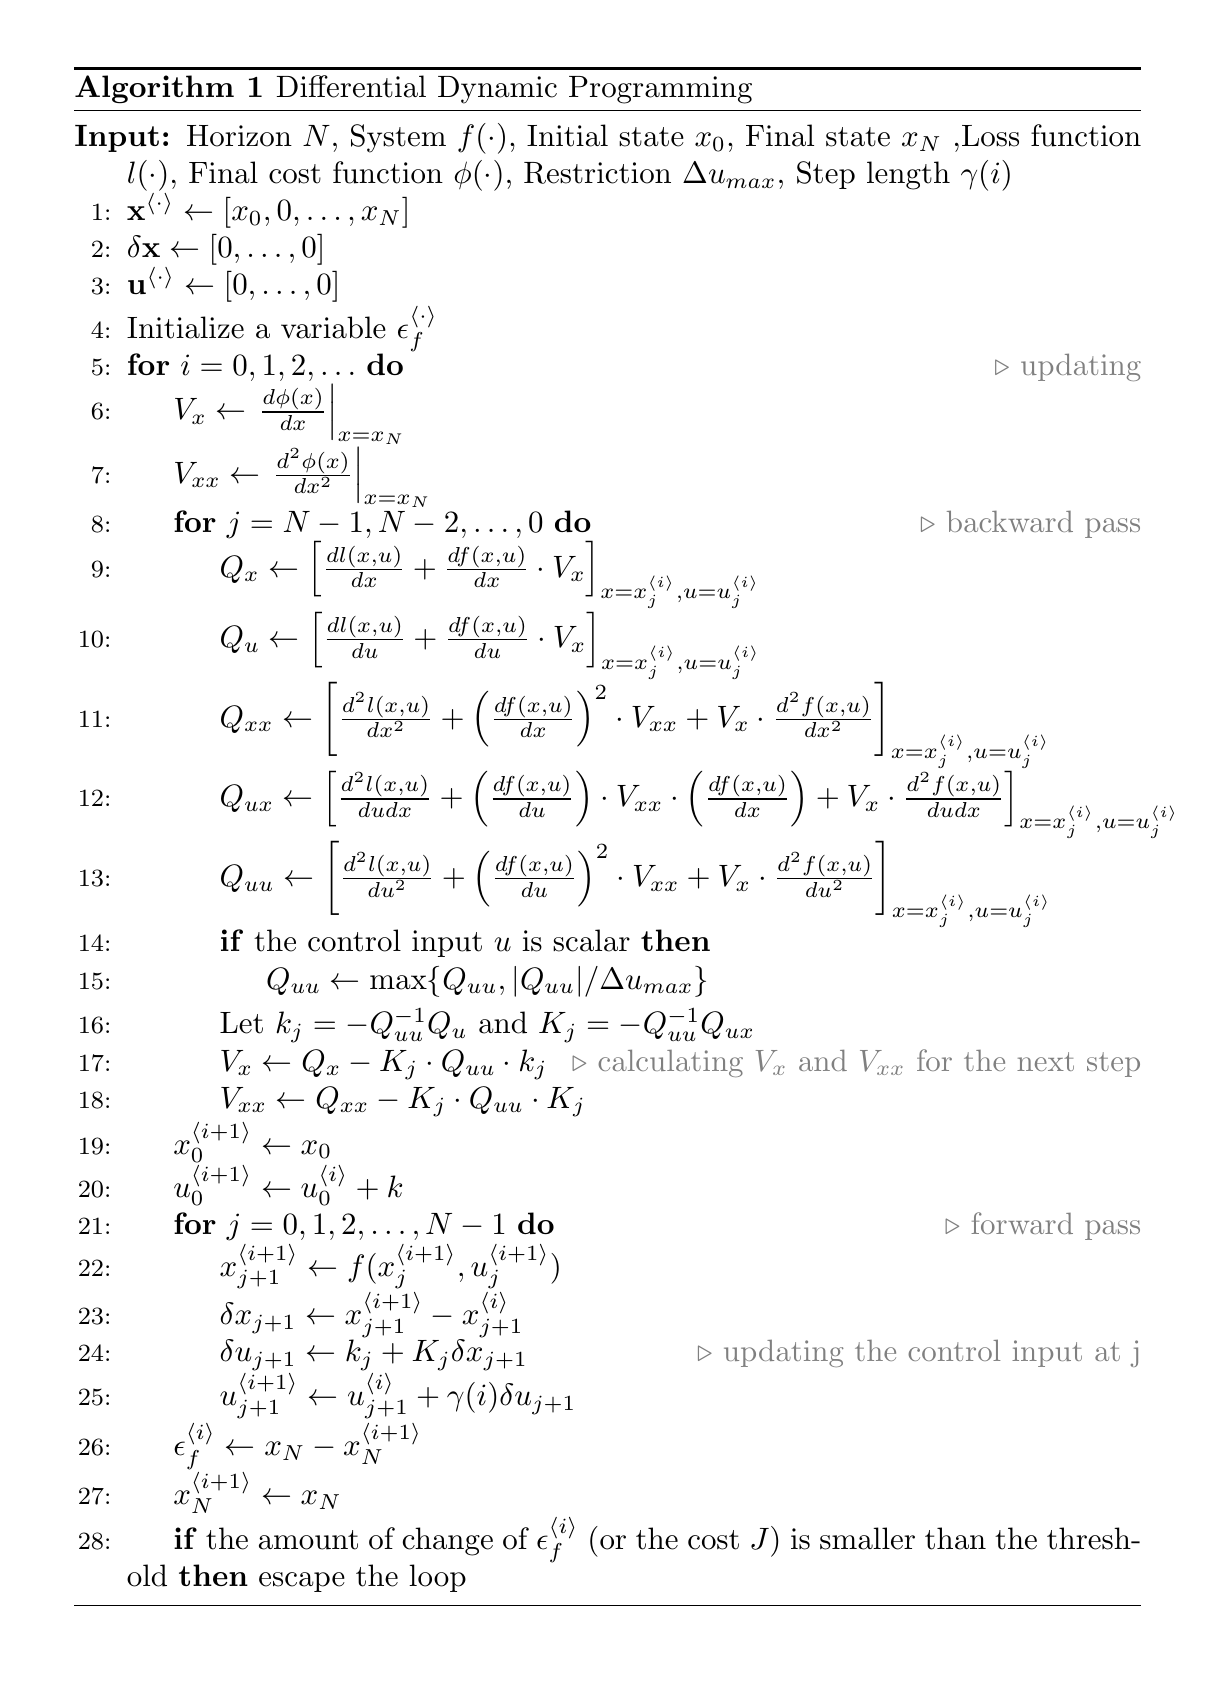
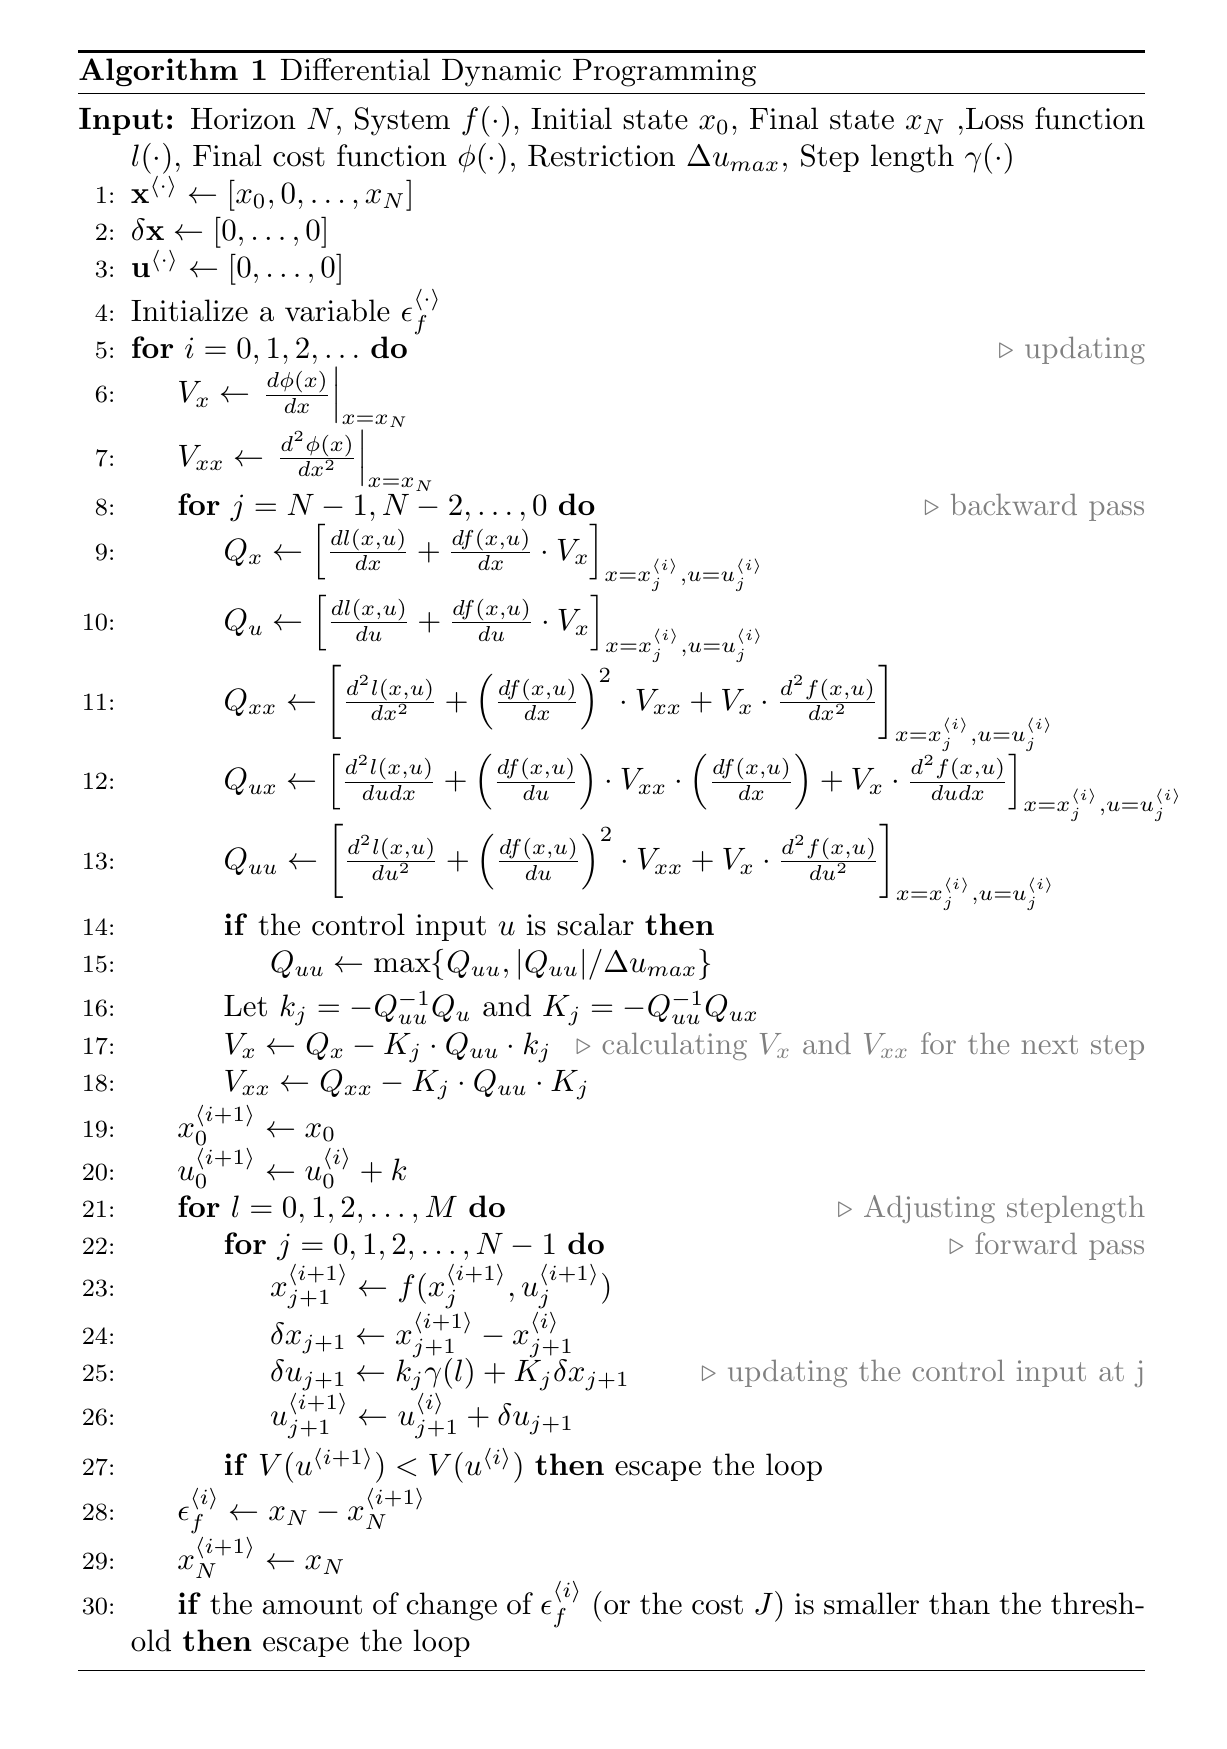
Fix the pseudo code

diff --git a/pseudo.tex b/pseudo.tex
@@ -26,7 +26,7 @@
 \caption{Differential Dynamic Programming}\label{DDP}
 \renewcommand{\algorithmicrequire}{\textbf{Input:}}
 \begin{algorithmic}[1]
-\Require{Horizon \(N\), System $f(\cdot)$, Initial state $x_0$, Final state $x_N$ ,Loss function $l(\cdot)$, Final cost function $\phi(\cdot)$, Restriction $\Delta u_{max}$, Step length $\gamma(i)$}
+\Require{Horizon \(N\), System $f(\cdot)$, Initial state $x_0$, Final state $x_N$ ,Loss function $l(\cdot)$, Final cost function $\phi(\cdot)$, Restriction $\Delta u_{max}$, Step length $\gamma(\cdot)$}
 \State $\mathbf{x}^{\langle \cdot \rangle}\leftarrow [x_0,0,\ldots,x_N]$
 \State $\delta\mathbf{x}\leftarrow [0,\ldots,0]$
 \State $\mathbf{u}^{\langle \cdot \rangle}\leftarrow [0,\ldots,0]$
@@ -48,12 +48,17 @@
 \State $V_{xx} \leftarrow Q_{xx}-K_j\cdot Q_{uu}\cdot K_j$
 \EndFor
 \State $x_0^{\langle i+1 \rangle} \leftarrow x_0$
-\State $u_0^{\langle i+1 \rangle} \leftarrow u_0^{\langle i \rangle} + k$ 
+\State $u_0^{\langle i+1 \rangle} \leftarrow u_0^{\langle i \rangle} + k$
+\For {$l = 0, 1, 2, \ldots, M$}\textcolor{gray}{\Comment{Adjusting steplength}}
 \For {$j = 0,1,2,\ldots,N-1$}\textcolor{gray}{\Comment{forward pass}}
 \State $x_{j+1}^{\langle i+1 \rangle} \leftarrow f(x_j^{\langle i+1 \rangle},u_j^{\langle i+1 \rangle})$
 \State $\delta x_{j+1} \leftarrow x_{j+1}^{\langle i+1 \rangle} - x_{j+1}^{\langle i \rangle}$
-\State $\delta u_{j+1} \leftarrow k_j+K_j\delta x_{j+1}$\textcolor{gray}{\Comment{updating the control input at j}}
-\State $ u_{j+1}^{\langle i+1\rangle} \leftarrow u_{j+1}^{\langle i\rangle} + \gamma(i)\delta u_{j+1}$
+\State $\delta u_{j+1} \leftarrow k_j\gamma(l)+K_j\delta x_{j+1}$\textcolor{gray}{\Comment{updating the control input at j}}
+\State $ u_{j+1}^{\langle i+1\rangle} \leftarrow u_{j+1}^{\langle i\rangle} + \delta u_{j+1}$
+\EndFor
+\If {$V(u^{\langle i+1 \rangle}) < V(u^{\langle i \rangle})$}
+escape the loop
+\EndIf
 \EndFor
 \State $\epsilon_f^{\langle i \rangle} \leftarrow x_N - x_N^{\langle i+1 \rangle}$
 \State $x_N^{\langle i+1 \rangle} \leftarrow x_N$
